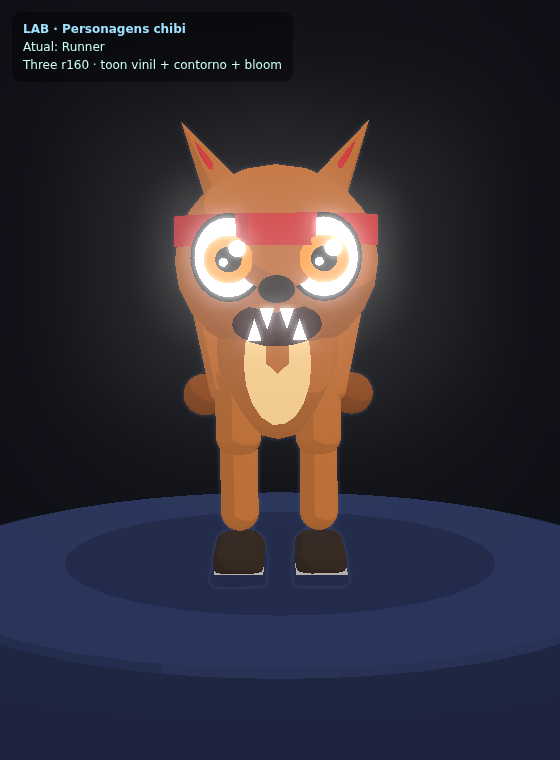
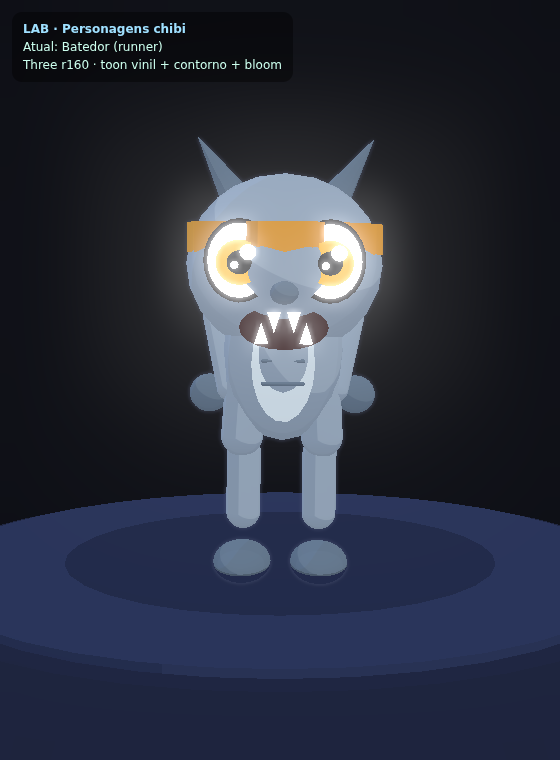
feat(lab): refaz runner como "Batedor" (A Maré, Âmbar) — espreitador gelo-morto
Segue lab/concept/batedor.png: carne enregelada, acentos âmbar, olhos brilhantes,
garras no lugar de tênis, bandana + fitas esvoaçando (velocidade), postura de caça.
Consistente com a facção (frost) e distinto do Saqueador. ERROS=[].

https://claude.ai/code/session_01FsKks2LfpRXbTiAL1QZHxj

Changed region(s): [[0.3036, 0.1513, 0.6982, 0.7566], [0.2125, 0.0605, 0.2732, 0.0908], [0.1214, 0.0605, 0.1821, 0.0908]]

diff --git a/lab/monsters.js b/lab/monsters.js
@@ -260,66 +260,74 @@ function ribbon(start, color, segs = 4, len = 0.34, w = 0.26, curve = 0.5) {
 }
 
 // ════════════════════════════ RUNNER (batedor veloz, digitígrado) ════════════════════════════
+// ═══════════ RUNNER — "Batedor" (A Maré, Âmbar): espreitador veloz gelo-morto ═══════════
+// Ficha: lab/concept/batedor.png — magro, à caça rápida, frostbitten + acentos âmbar,
+// olhos brilhantes, fitas/bandana esvoaçando (= velocidade). Sem tênis (é gelo-morto).
 export function buildRunner(opts = {}) {
-  const SKIN = opts.skin ?? 0xd07a38;   // terracota
-  const SKIN2 = opts.skin2 ?? 0x9c531f;  // sombra
-  const BELLY = opts.belly ?? 0xf0c98c;
-  const SCARF = opts.scarf ?? 0xe23b3b;  // cachecol vermelho (velocidade)
+  const SKIN = opts.skin ?? 0x9fb1c2;   // carne enregelada
+  const SKIN2 = opts.skin2 ?? 0x6d8194;  // sombra fria
+  const BELLY = opts.belly ?? 0xc4d2dd;
+  const SCARF = opts.scarf ?? 0xe7a32a;  // facção Âmbar (bandana/fitas)
+  const GLOW = 0xffb733;                 // brilho âmbar (olhos/brasa)
+  const RAG = 0x2b2f37;                  // trapos
 
-  const FOOT = 0x3a2c22;
   const model = new THREE.Group();
-  const HEADR = 0.52;
-  const HEADY = 1.72;
+  const HEADR = 0.5;
+  const HEADY = 1.7;
 
-  // ── pernas esguias e longas + pés esportivos grandes ──
+  // ── pernas esguias + pés com garras (frostbitten), levemente fletidas ──
   for (const sx of [-1, 1]) {
-    const thigh = capsule(0.12, 0.32, SKIN); thigh.position.set(sx * 0.21, 0.92, 0.02); model.add(thigh);
-    const shin = capsule(0.1, 0.34, SKIN); shin.position.set(sx * 0.21, 0.5, 0.0); model.add(shin);
-    // tênis/pé grande (velocidade)
-    const foot = rbox(0.26, 0.18, 0.5, FOOT, 0.08); foot.position.set(sx * 0.21, 0.13, 0.14); model.add(foot);
-    const sole = rbox(0.28, 0.07, 0.52, 0xe8e2d2, 0.03); sole.position.set(sx * 0.21, 0.05, 0.14); model.add(sole);
+    const thigh = capsule(0.11, 0.32, SKIN); thigh.position.set(sx * 0.2, 0.92, 0.04); thigh.rotation.z = sx * 0.06; model.add(thigh);
+    const shin = capsule(0.09, 0.34, SKIN); shin.position.set(sx * 0.2, 0.5, 0.0); model.add(shin);
+    const foot = blob(0.15, 0.1, 0.28, SKIN2); foot.position.set(sx * 0.2, 0.09, 0.14); model.add(foot);
+    for (const k of [-1, 0, 1]) {
+      const claw = cone(0.04, 0.13, 0xe9eef4, 6); claw.position.set(sx * 0.2 + k * 0.08, 0.07, 0.32);
+      claw.rotation.x = Math.PI / 2; claw.userData.noOutline = true; model.add(claw);
+    }
   }
 
-  // ── corpo magro ──
-  const body = blob(0.32, 0.5, 0.3, SKIN); body.position.set(0, 1.24, 0); model.add(body);
-  const belly = new THREE.Mesh(new THREE.CircleGeometry(0.17, 18),
+  // ── corpo magro, curvado pra frente (postura de caça) ──
+  const body = blob(0.31, 0.5, 0.3, SKIN); body.position.set(0, 1.24, 0.04); model.add(body);
+  const belly = new THREE.Mesh(new THREE.CircleGeometry(0.16, 18),
     new THREE.MeshBasicMaterial({ color: BELLY, toneMapped: false }));
-  belly.scale.set(1, 1.9, 1); belly.position.set(0, 1.18, 0.29); belly.userData.noOutline = true; model.add(belly);
-
-  // ── braços finos levemente pra trás ──
-  for (const sx of [-1, 1]) {
-    const arm = capsule(0.075, 0.46, SKIN); arm.position.set(sx * 0.33, 1.22, -0.08); arm.rotation.x = -0.45; arm.rotation.z = sx * -0.2; model.add(arm);
-    const hand = glove(0.12, SKIN2); hand.position.set(sx * 0.4, 0.96, -0.28); model.add(hand);
+  belly.scale.set(1, 1.9, 1); belly.position.set(0, 1.18, 0.31); belly.userData.noOutline = true; model.add(belly);
+  // costelas frias
+  for (const i of [0, 1, 2]) {
+    const rib = rbox(0.22, 0.02, 0.04, SKIN2, 0.01); rib.position.set(0, 1.08 + i * 0.12, 0.31); model.add(rib);
   }
 
-  // ── CABEÇA ereta e redonda (rosto bem legível) ──
-  const head = ball(HEADR, SKIN); head.position.set(0, HEADY, 0); head.scale.set(1.02, 1, 1); model.add(head);
-
-  // orelhas altas levemente pra trás (silhueta), mas visíveis
+  // ── braços finos jogados pra trás (corrida) ──
   for (const sx of [-1, 1]) {
-    const ear = cone(0.15, 0.66, SKIN, 12); ear.position.set(sx * 0.34, HEADY + 0.5, -0.08);
-    ear.rotation.z = sx * -0.5; ear.rotation.x = -0.35; model.add(ear);
-    const earIn = cone(0.07, 0.44, SCARF, 10); earIn.position.set(sx * 0.32, HEADY + 0.48, -0.02);
-    earIn.rotation.z = sx * -0.5; earIn.rotation.x = -0.35; earIn.userData.noOutline = true; model.add(earIn);
+    const arm = capsule(0.07, 0.46, SKIN); arm.position.set(sx * 0.32, 1.22, -0.08); arm.rotation.x = -0.5; arm.rotation.z = sx * -0.2; model.add(arm);
+    const hand = glove(0.11, SKIN2); hand.position.set(sx * 0.4, 0.96, -0.3); model.add(hand);
   }
 
-  // olhos GRANDES e ansiosos (a bandana já emoldura o rosto; sem sobrancelha flutuante)
+  // ── CABEÇA gaunt erguida (rosto legível) ──
+  const head = ball(HEADR, SKIN); head.position.set(0, HEADY, 0.02); head.scale.set(1.02, 0.98, 1); model.add(head);
+  // orelhas/chifres finos puxados pra trás (silhueta de velocidade)
   for (const sx of [-1, 1]) {
-    const e = eye(0.2, 0xff9a2a, 'normal'); e.position.set(sx * 0.23, HEADY + 0.02, HEADR * 0.94); e.userData.noOutline = true; model.add(e);
+    const ear = cone(0.12, 0.64, SKIN2, 10); ear.position.set(sx * 0.32, HEADY + 0.46, -0.1);
+    ear.rotation.z = sx * -0.5; ear.rotation.x = -0.5; model.add(ear);
   }
-  // focinho/nariz pequeno + grande sorriso
-  const nose = blob(0.09, 0.07, 0.1, 0x2a1c14); nose.position.set(0, HEADY - 0.14, HEADR * 1.0); nose.userData.noOutline = true; model.add(nose);
+  // olhos âmbar brilhantes
+  for (const sx of [-1, 1]) {
+    const e = eye(0.19, GLOW, 'normal'); e.position.set(sx * 0.22, HEADY + 0.02, HEADR * 0.94); e.userData.noOutline = true; model.add(e);
+    const gl = new THREE.Mesh(new THREE.CircleGeometry(0.11, 14), glow(GLOW));
+    gl.position.set(sx * 0.22, HEADY + 0.02, HEADR * 0.9); gl.userData.noOutline = true; model.add(gl);
+  }
+  const nose = blob(0.07, 0.06, 0.09, SKIN2); nose.position.set(0, HEADY - 0.14, HEADR * 1.0); nose.userData.noOutline = true; model.add(nose);
   const grin = fangMouth(0.22); grin.position.set(0, HEADY - 0.32, HEADR * 0.86); model.add(grin);
 
-  // ── BANDANA na testa com duas pontas esvoaçando pra trás (= velocidade) ──
+  // ── BANDANA âmbar na testa + fitas esvoaçando (= velocidade) ──
   const band = new THREE.Mesh(new THREE.CylinderGeometry(HEADR * 1.02, HEADR * 1.02, 0.16, 24, 1, true), vinyl(SCARF));
-  band.position.set(0, HEADY + 0.16, 0); band.userData.noOutline = true; model.add(band);
-  model.add(ribbon(new THREE.Vector3(-0.36, HEADY + 0.18, -0.2), SCARF, 4, 0.32, 0.18, 0.45));
-  model.add(ribbon(new THREE.Vector3(-0.42, HEADY + 0.08, -0.18), SCARF, 3, 0.3, 0.14, 0.6));
+  band.position.set(0, HEADY + 0.14, 0); band.userData.noOutline = true; model.add(band);
+  model.add(ribbon(new THREE.Vector3(-0.36, HEADY + 0.16, -0.2), SCARF, 4, 0.32, 0.18, 0.45));
+  model.add(ribbon(new THREE.Vector3(-0.42, HEADY + 0.06, -0.18), SCARF, 3, 0.3, 0.14, 0.6));
 
-  // ── cauda fina esvoaçando ──
-  model.add(ribbon(new THREE.Vector3(0, 1.02, -0.26), SKIN, 4, 0.3, 0.2, 0.4));
+  // ── cachecol/trapo no pescoço + ponta esvoaçando ──
+  const scarf = new THREE.Mesh(new THREE.CylinderGeometry(0.26, 0.3, 0.16, 16), vinyl(RAG));
+  scarf.position.set(0, 1.54, 0.04); model.add(scarf);
+  model.add(ribbon(new THREE.Vector3(-0.18, 1.42, -0.22), SCARF, 4, 0.26, 0.16, 0.5));
 
-  outlineAll(model, 0.045);
   return { model, lights: [] };
 }

diff --git a/lab/characters.html b/lab/characters.html
@@ -44,7 +44,7 @@ import { buildGrunt, buildRunner, buildShield } from './monsters.js';
 const CHARS = {
   hero:   { build: buildHeroMage, label: 'Pyr (bruxa de fogo)', look: 1.35, dist: 7.4 },
   grunt:  { build: buildGrunt,    label: 'Saqueador (grunt)', look: 1.1, dist: 6.8 },
-  runner: { build: buildRunner,   label: 'Runner',     look: 1.0,  dist: 6.6 },
+  runner: { build: buildRunner,   label: 'Batedor (runner)', look: 1.0, dist: 6.6 },
   shield: { build: buildShield,   label: 'Shield',     look: 1.1,  dist: 7.2 },
 };
 
